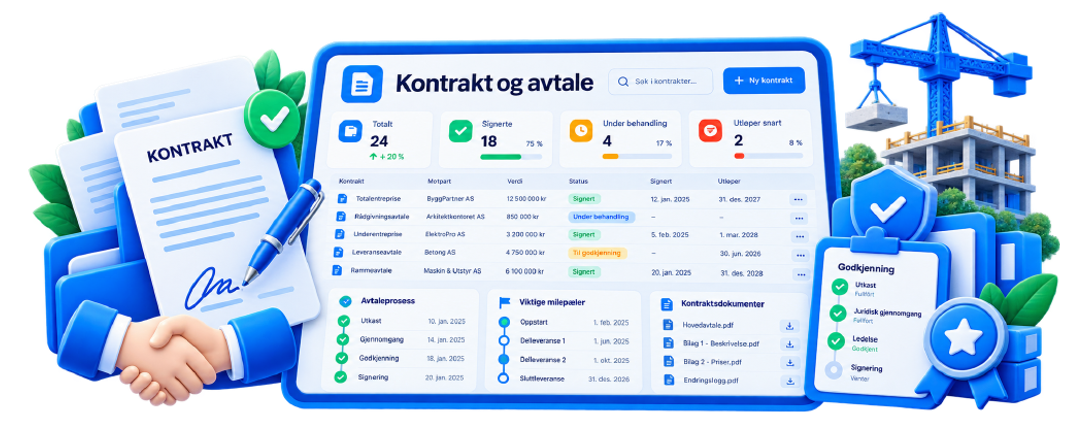
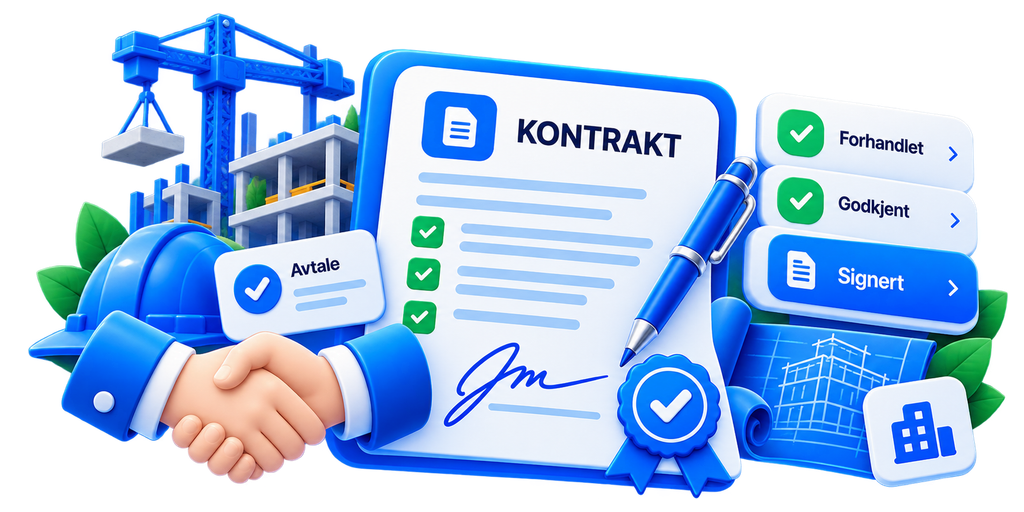
Oppdater illustrasjonen på anbudsforespørsel og kontrakt.
Forespørsel får heading-bilde, og kontrakt byttes til det nye motivet.

diff --git a/src/modules/moduleActivationLogic.js b/src/modules/moduleActivationLogic.js
@@ -18,7 +18,7 @@ export const ILLUSTRATION_DIR = '/assets/module-activation';
 /** Bump when illustration bytes change. Filenames stay stable, so web URLs
  *  must change or browsers keep the old PNG (Firebase caches /assets/* as
  *  immutable for a year). */
-export const ILLUSTRATION_CACHE = '20261015d';
+export const ILLUSTRATION_CACHE = '20261015e';
 
 export function withIllustrationCache(path) {
   if (!path) return path;
@@ -68,6 +68,7 @@ export const ILLUSTRATION_FILES = {
   kunder: 'kunder--module-activation-illustration.png',
   'anbud-varsling': 'anbud-varsling--module-activation-illustration.png',
   'anbud-vurdering': 'anbud-vurdering--module-activation-illustration.png',
+  'anbud-foresporsel': 'anbud-foresporsel--module-activation-illustration.png',
   'anbud-tilbud': 'anbud-tilbud--module-activation-illustration.png',
   kontrakt: 'kontrakt--module-activation-illustration.png',
   skjema: 'skjema--module-activation-illustration.png',

diff --git a/src/modules/moduleActivationAssets.js b/src/modules/moduleActivationAssets.js
@@ -52,6 +52,7 @@ const BUNDLED = {
   kunder: require('../../assets/module-activation/kunder--module-activation-illustration.png'),
   'anbud-varsling': require('../../assets/module-activation/anbud-varsling--module-activation-illustration.png'),
   'anbud-vurdering': require('../../assets/module-activation/anbud-vurdering--module-activation-illustration.png'),
+  'anbud-foresporsel': require('../../assets/module-activation/anbud-foresporsel--module-activation-illustration.png'),
   'anbud-tilbud': require('../../assets/module-activation/anbud-tilbud--module-activation-illustration.png'),
   kontrakt: require('../../assets/module-activation/kontrakt--module-activation-illustration.png'),
   skjema: require('../../assets/module-activation/skjema--module-activation-illustration.png'),

diff --git a/src/modules/companyHero.js b/src/modules/companyHero.js
@@ -142,6 +142,7 @@ export const COMPANY_HERO = {
   },
   'anbud-foresporsel': {
     ...BLUE,
+    wideArt: true,
     name: 'Anbudsforespørsel',
     kicker: t('Anbud', 'Tenders'),
     title: t('Anbudsforespørsel', 'Tender enquiry'),
